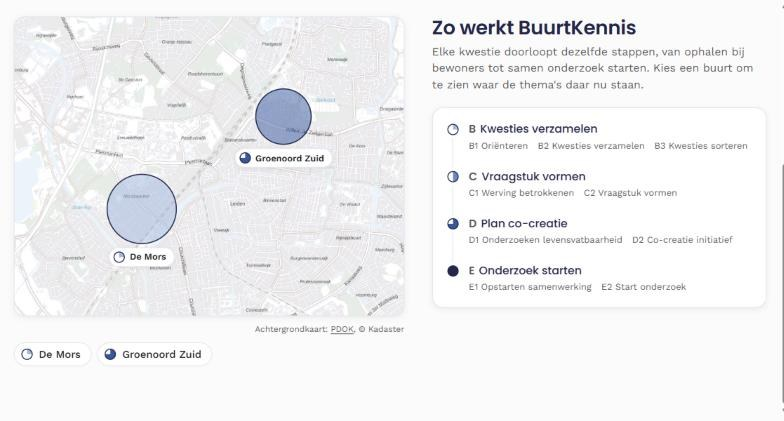
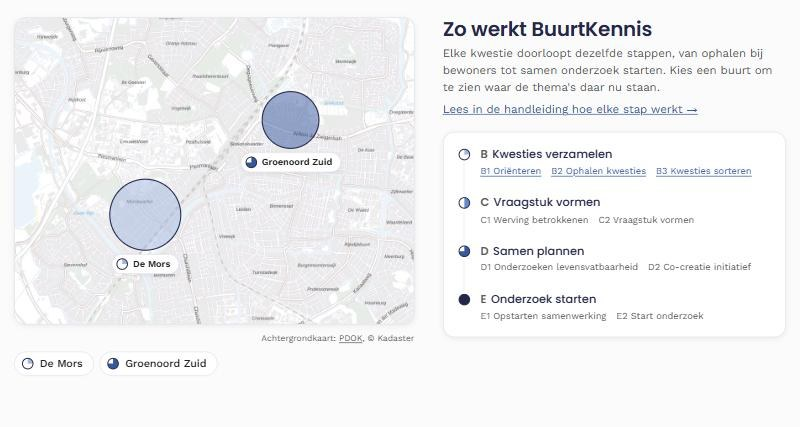
Voorbeeldafbeelding met de stapnamen uit GitBook
Claude-Session: https://claude.ai/code/session_01Q6pxUyQBTfyvNJQU1fPGe5

diff --git a/_includes/buurtenkaart.html b/_includes/buurtenkaart.html
@@ -31,8 +31,8 @@
 <meta property="og:locale" content="nl_NL">
 <meta property="og:url" content="https://citizensciencelab.github.io/buurtkennis/buurten/">
 <meta property="og:image" content="https://citizensciencelab.github.io/buurtkennis/buurten/voorbeeld.jpg">
-<meta property="og:image:width" content="784">
-<meta property="og:image:height" content="421">
+<meta property="og:image:width" content="800">
+<meta property="og:image:height" content="427">
 <meta property="og:image:alt" content="Kaart van Leiden met De Mors en Groenoord Zuid, naast de stappen van de BuurtKennis-methode">
 <meta name="twitter:card" content="summary_large_image">
 {%- endif %}
